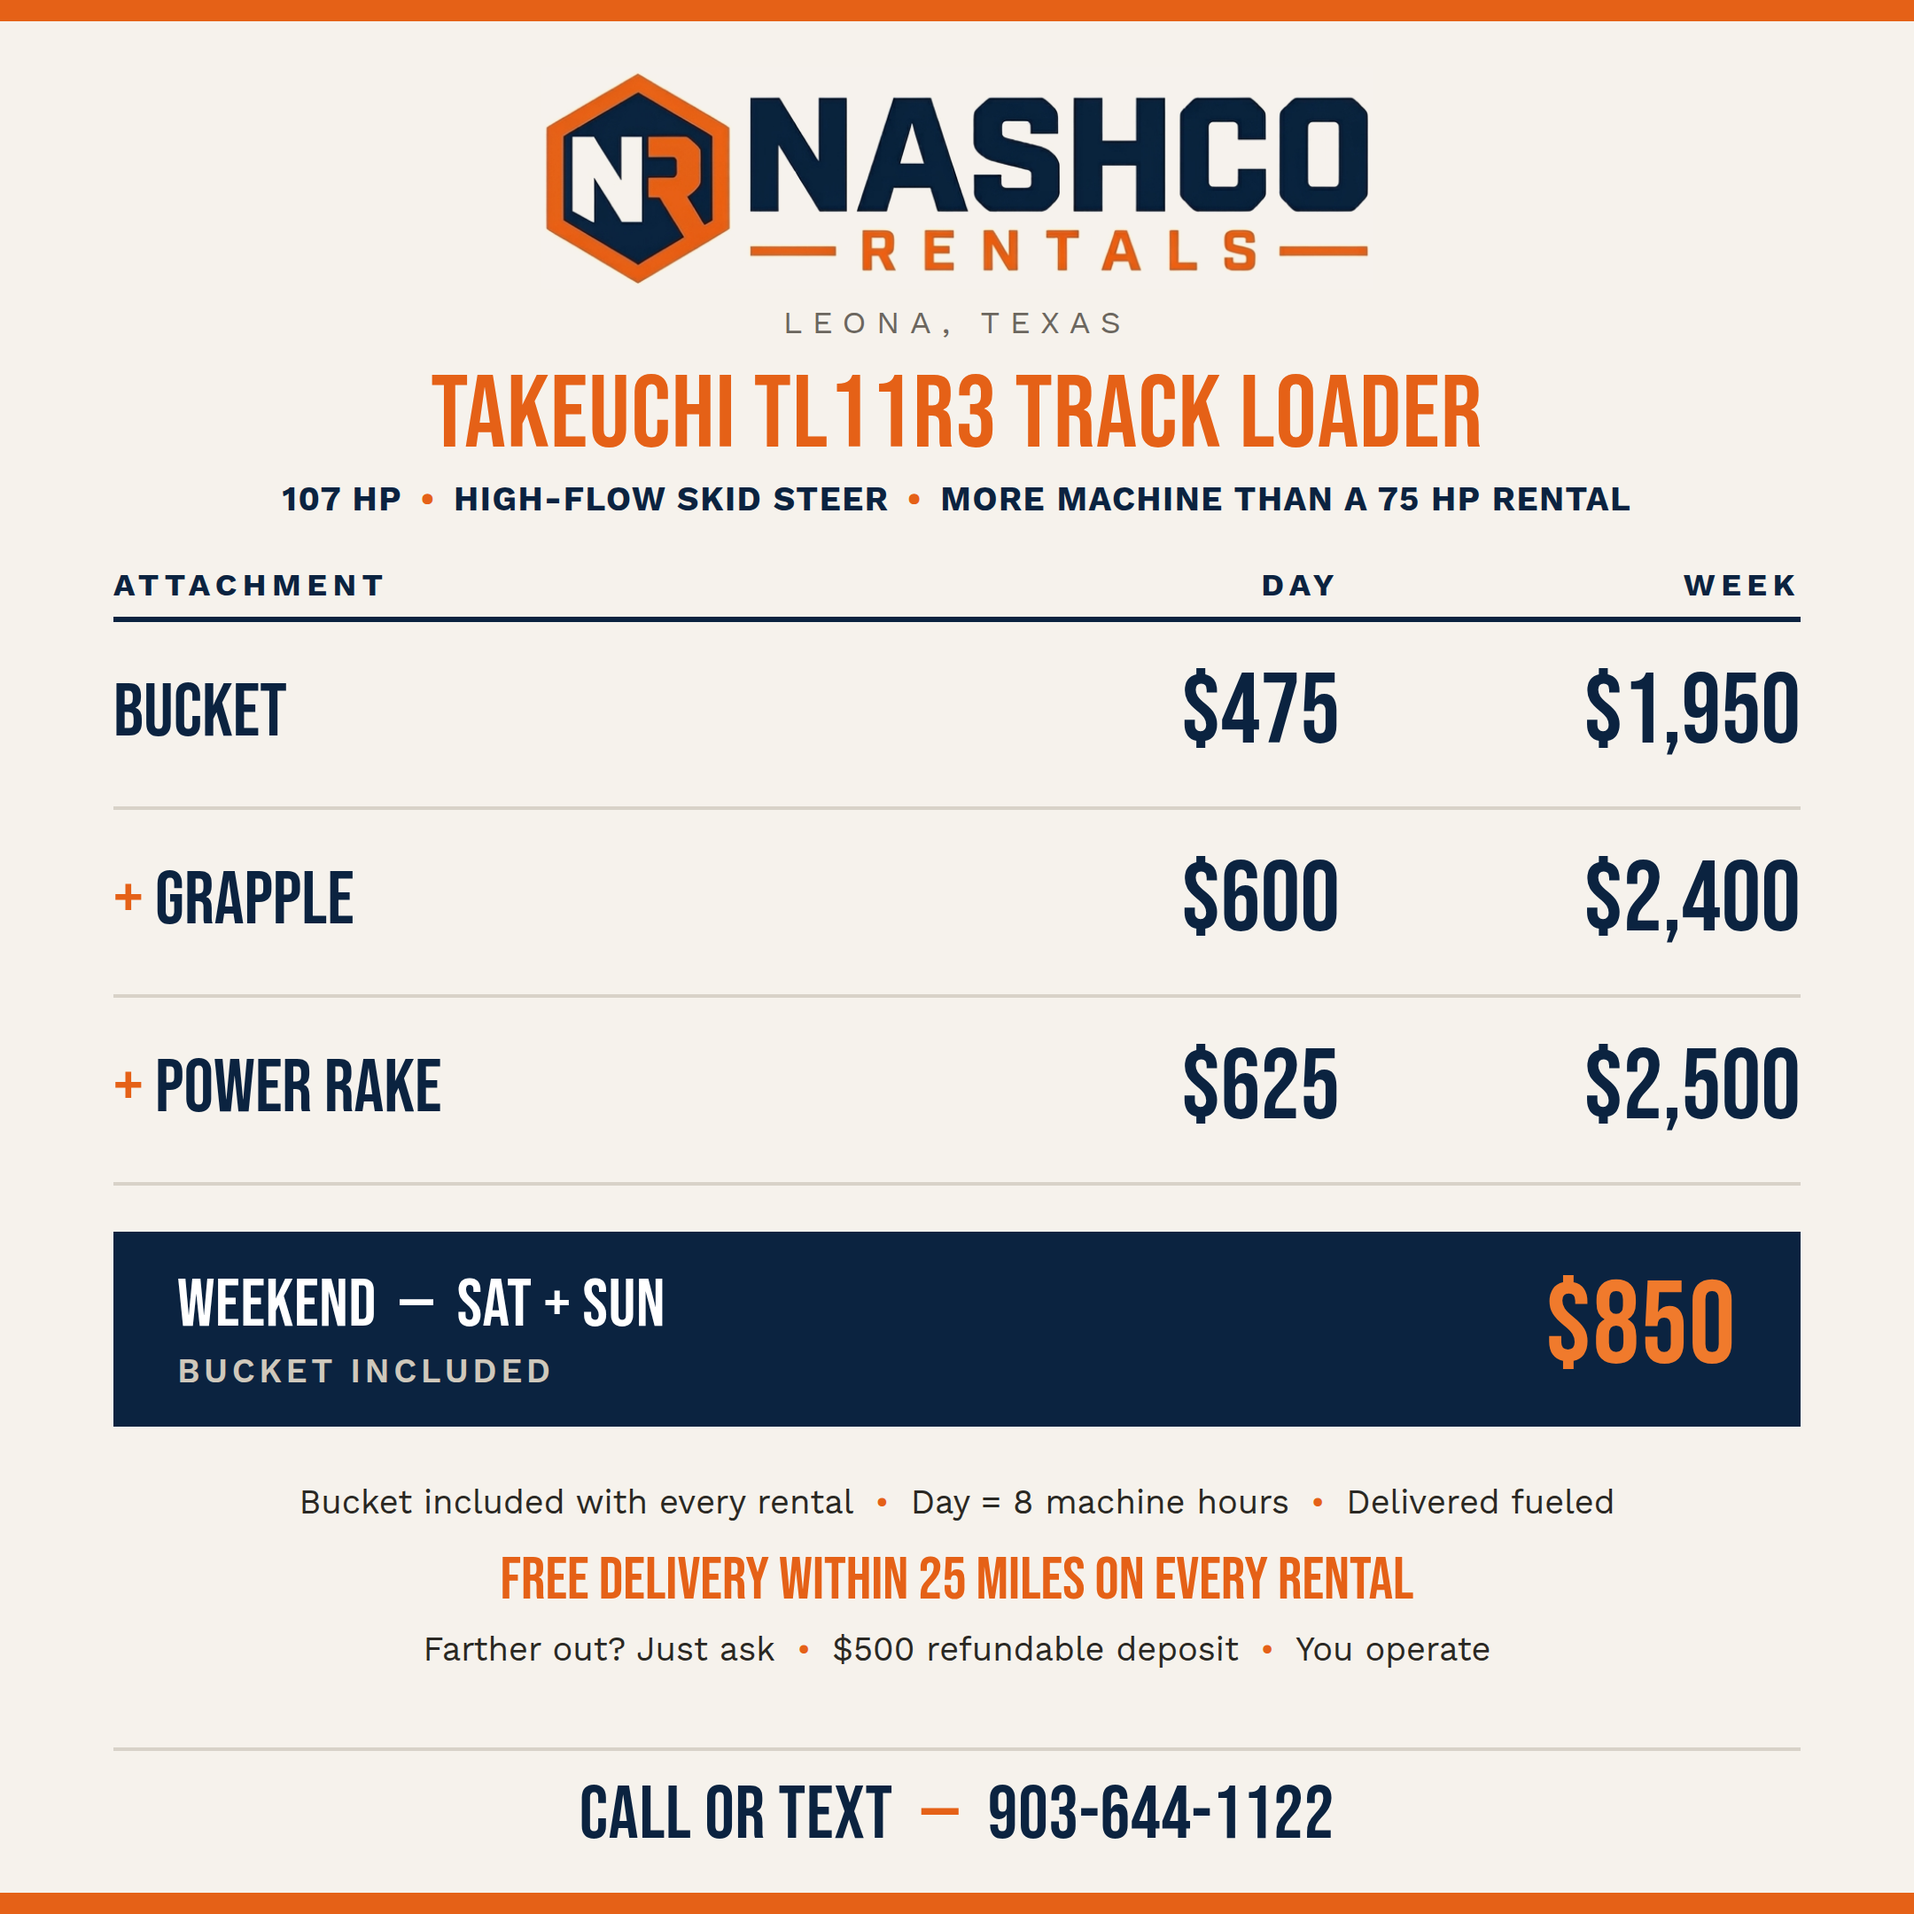
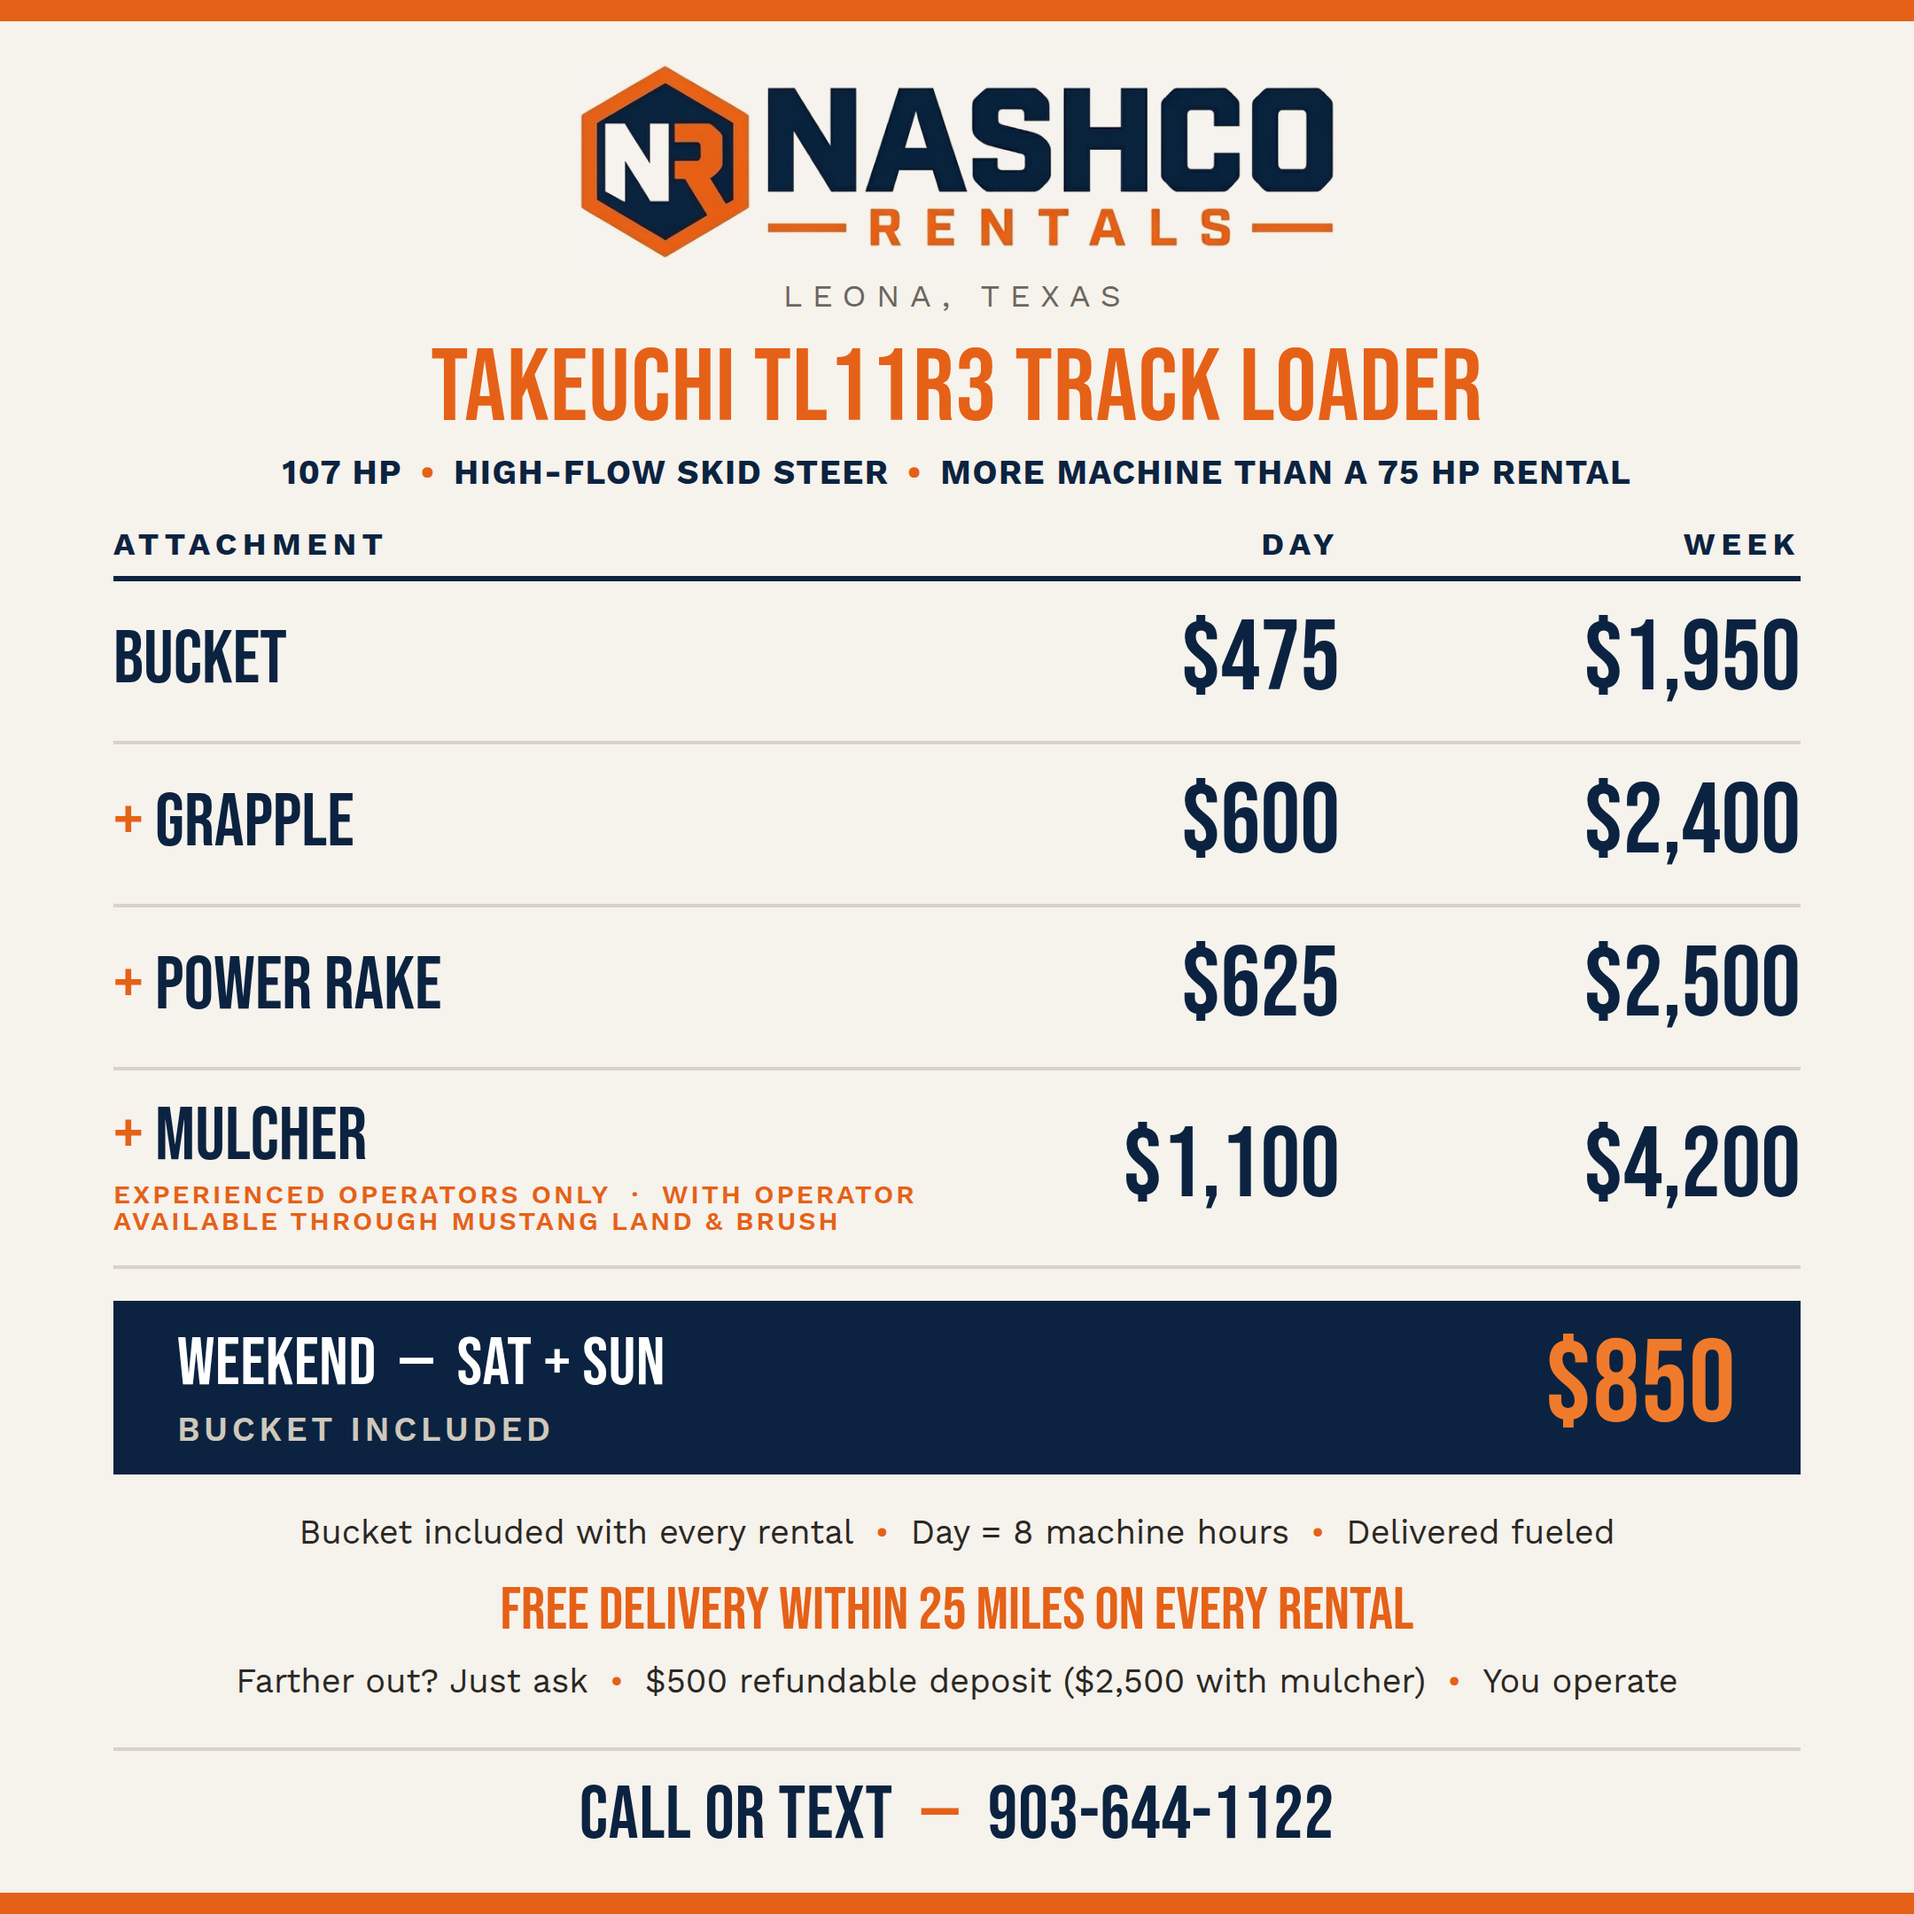
Rate cards: add mulcher row, drop standalone mulcher card
Claude-Session: https://claude.ai/code/session_01MjBdAn1tqXy1S9X7E6qMHj

Changed region(s): [[0.062, 0.031, 0.9616, 0.8995], [0.7755, 0.8685, 0.8685, 0.8995]]

diff --git a/marketing/rate-card-sq.html b/marketing/rate-card-sq.html
@@ -7,28 +7,28 @@
   html,body{width:1080px;height:1080px;background:var(--cream);color:var(--ink);font-family:"Work Sans",Arial,Helvetica,sans-serif;-webkit-font-smoothing:antialiased}
   .card{width:1080px;height:1080px;padding:0 64px 0;border-top:12px solid var(--red);border-bottom:12px solid var(--red);display:flex;flex-direction:column}
   .bebas{font-family:"Bebas Neue","Arial Narrow",Impact,sans-serif;font-weight:400;letter-spacing:.01em}
-  .brand{text-align:center;padding-top:26px}
+  .brand{text-align:center;padding-top:22px}
   .brand h1{font-size:118px;line-height:.92}
-  .brand .logo{display:block;margin:0 auto;width:470px;height:auto}
+  .brand .logo{display:block;margin:0 auto;width:430px;height:auto}
   .brand .loc{margin-top:8px;font-size:18px;letter-spacing:.32em;color:var(--muted);text-transform:uppercase}
   .machine{text-align:center;margin-top:14px}
   .machine h2{font-size:58px;line-height:1;color:var(--red)}
   .machine .specs{margin-top:6px;font-size:19px;font-weight:700;letter-spacing:.04em;text-transform:uppercase}
   .machine .specs span{color:var(--red);padding:0 10px}
-  table{width:100%;border-collapse:collapse;margin-top:26px}
+  table{width:100%;border-collapse:collapse;margin-top:18px}
   th{font-size:18px;font-weight:700;letter-spacing:.18em;text-transform:uppercase;text-align:right;padding:0 0 8px;color:var(--ink);border-bottom:3px solid var(--ink)}
   th:first-child{text-align:left}
   th small{display:block;font-size:15px;font-weight:600;letter-spacing:.12em;color:var(--red);margin-top:4px}
-  td{padding:24px 0;border-bottom:2px solid var(--rule);vertical-align:middle}
+  td{padding:17px 0;border-bottom:2px solid var(--rule);vertical-align:middle}
   td.label{font-family:"Bebas Neue","Arial Narrow",Impact,sans-serif;font-size:42px;line-height:1;text-align:left}
   td.label em{font-style:normal;color:var(--red)}
   td.price{font-family:"Bebas Neue","Arial Narrow",Impact,sans-serif;font-size:56px;line-height:1;text-align:right;width:230px}
   td.price.week{width:260px}
-  .weekend{margin-top:26px;background:var(--ink);color:#fff;display:flex;align-items:center;justify-content:space-between;padding:22px 36px}
+  .weekend{margin-top:18px;background:var(--ink);color:#fff;display:flex;align-items:center;justify-content:space-between;padding:16px 36px}
   .weekend .l{font-size:38px;line-height:1}
   .weekend .l small{display:block;font-family:"Work Sans",sans-serif;font-size:19px;font-weight:600;letter-spacing:.12em;text-transform:uppercase;color:#cfc8bb;margin-top:8px}
   .weekend .r{font-size:66px;line-height:1;color:var(--gold)}
-  .terms{margin-top:28px;text-align:center;font-size:19px;line-height:1.6;color:#2a2823}
+  .terms{margin-top:18px;text-align:center;font-size:19px;line-height:1.6;color:#2a2823}
   .terms b{font-weight:700}
   .terms .free{display:inline-block;font-family:"Bebas Neue","Arial Narrow",Impact,sans-serif;font-size:34px;color:var(--red);line-height:1.2;margin:8px 0 4px}
   .terms .dot{color:var(--red);padding:0 12px}
@@ -50,6 +50,7 @@
     <tr><td class="label">BUCKET</td><td class="price">$475</td><td class="price week">$1,950</td></tr>
     <tr><td class="label"><em>+</em> GRAPPLE</td><td class="price">$600</td><td class="price week">$2,400</td></tr>
     <tr><td class="label"><em>+</em> POWER RAKE</td><td class="price">$625</td><td class="price week">$2,500</td></tr>
+    <tr><td class="label"><em>+</em> MULCHER <small style="display:block;font-family:'Work Sans',sans-serif;font-size:15px;font-weight:600;letter-spacing:.1em;color:var(--red);margin-top:4px">EXPERIENCED OPERATORS ONLY &nbsp;·&nbsp; WITH OPERATOR AVAILABLE THROUGH MUSTANG LAND &amp; BRUSH</small></td><td class="price">$1,100</td><td class="price week">$4,200</td></tr>
   </table>
 
   <div class="weekend">
@@ -60,7 +61,7 @@
   <div class="terms">
     Bucket included with every rental<span class="dot">•</span>Day = 8 machine hours<span class="dot">•</span>Delivered fueled<br>
     <span class="free">FREE DELIVERY WITHIN 25 MILES ON EVERY RENTAL</span><br>
-    Farther out? Just ask<span class="dot">•</span>$500 refundable deposit<span class="dot">•</span>You operate
+    Farther out? Just ask<span class="dot">•</span>$500 refundable deposit ($2,500 with mulcher)<span class="dot">•</span>You operate
   </div>
 
   <div class="cta bebas">MESSAGE WITH YOUR DATES<span class="sep">—</span>FAST QUOTE</div>

diff --git a/marketing/rate-card-sq-phone.html b/marketing/rate-card-sq-phone.html
@@ -7,28 +7,28 @@
   html,body{width:1080px;height:1080px;background:var(--cream);color:var(--ink);font-family:"Work Sans",Arial,Helvetica,sans-serif;-webkit-font-smoothing:antialiased}
   .card{width:1080px;height:1080px;padding:0 64px 0;border-top:12px solid var(--red);border-bottom:12px solid var(--red);display:flex;flex-direction:column}
   .bebas{font-family:"Bebas Neue","Arial Narrow",Impact,sans-serif;font-weight:400;letter-spacing:.01em}
-  .brand{text-align:center;padding-top:26px}
+  .brand{text-align:center;padding-top:22px}
   .brand h1{font-size:118px;line-height:.92}
-  .brand .logo{display:block;margin:0 auto;width:470px;height:auto}
+  .brand .logo{display:block;margin:0 auto;width:430px;height:auto}
   .brand .loc{margin-top:8px;font-size:18px;letter-spacing:.32em;color:var(--muted);text-transform:uppercase}
   .machine{text-align:center;margin-top:14px}
   .machine h2{font-size:58px;line-height:1;color:var(--red)}
   .machine .specs{margin-top:6px;font-size:19px;font-weight:700;letter-spacing:.04em;text-transform:uppercase}
   .machine .specs span{color:var(--red);padding:0 10px}
-  table{width:100%;border-collapse:collapse;margin-top:26px}
+  table{width:100%;border-collapse:collapse;margin-top:18px}
   th{font-size:18px;font-weight:700;letter-spacing:.18em;text-transform:uppercase;text-align:right;padding:0 0 8px;color:var(--ink);border-bottom:3px solid var(--ink)}
   th:first-child{text-align:left}
   th small{display:block;font-size:15px;font-weight:600;letter-spacing:.12em;color:var(--red);margin-top:4px}
-  td{padding:24px 0;border-bottom:2px solid var(--rule);vertical-align:middle}
+  td{padding:17px 0;border-bottom:2px solid var(--rule);vertical-align:middle}
   td.label{font-family:"Bebas Neue","Arial Narrow",Impact,sans-serif;font-size:42px;line-height:1;text-align:left}
   td.label em{font-style:normal;color:var(--red)}
   td.price{font-family:"Bebas Neue","Arial Narrow",Impact,sans-serif;font-size:56px;line-height:1;text-align:right;width:230px}
   td.price.week{width:260px}
-  .weekend{margin-top:26px;background:var(--ink);color:#fff;display:flex;align-items:center;justify-content:space-between;padding:22px 36px}
+  .weekend{margin-top:18px;background:var(--ink);color:#fff;display:flex;align-items:center;justify-content:space-between;padding:16px 36px}
   .weekend .l{font-size:38px;line-height:1}
   .weekend .l small{display:block;font-family:"Work Sans",sans-serif;font-size:19px;font-weight:600;letter-spacing:.12em;text-transform:uppercase;color:#cfc8bb;margin-top:8px}
   .weekend .r{font-size:66px;line-height:1;color:var(--gold)}
-  .terms{margin-top:28px;text-align:center;font-size:19px;line-height:1.6;color:#2a2823}
+  .terms{margin-top:18px;text-align:center;font-size:19px;line-height:1.6;color:#2a2823}
   .terms b{font-weight:700}
   .terms .free{display:inline-block;font-family:"Bebas Neue","Arial Narrow",Impact,sans-serif;font-size:34px;color:var(--red);line-height:1.2;margin:8px 0 4px}
   .terms .dot{color:var(--red);padding:0 12px}
@@ -50,6 +50,7 @@
     <tr><td class="label">BUCKET</td><td class="price">$475</td><td class="price week">$1,950</td></tr>
     <tr><td class="label"><em>+</em> GRAPPLE</td><td class="price">$600</td><td class="price week">$2,400</td></tr>
     <tr><td class="label"><em>+</em> POWER RAKE</td><td class="price">$625</td><td class="price week">$2,500</td></tr>
+    <tr><td class="label"><em>+</em> MULCHER <small style="display:block;font-family:'Work Sans',sans-serif;font-size:15px;font-weight:600;letter-spacing:.1em;color:var(--red);margin-top:4px">EXPERIENCED OPERATORS ONLY &nbsp;·&nbsp; WITH OPERATOR AVAILABLE THROUGH MUSTANG LAND &amp; BRUSH</small></td><td class="price">$1,100</td><td class="price week">$4,200</td></tr>
   </table>
 
   <div class="weekend">
@@ -60,7 +61,7 @@
   <div class="terms">
     Bucket included with every rental<span class="dot">•</span>Day = 8 machine hours<span class="dot">•</span>Delivered fueled<br>
     <span class="free">FREE DELIVERY WITHIN 25 MILES ON EVERY RENTAL</span><br>
-    Farther out? Just ask<span class="dot">•</span>$500 refundable deposit<span class="dot">•</span>You operate
+    Farther out? Just ask<span class="dot">•</span>$500 refundable deposit ($2,500 with mulcher)<span class="dot">•</span>You operate
   </div>
 
   <div class="cta bebas">CALL OR TEXT<span class="sep">—</span>903-644-1122</div>
